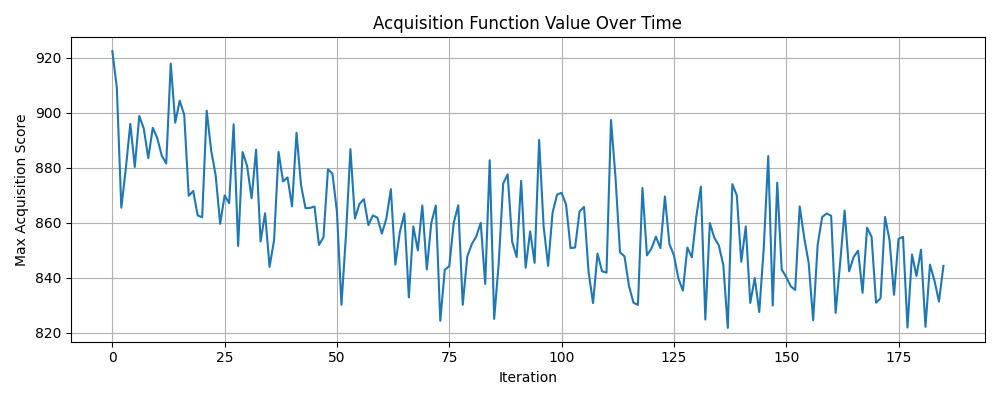
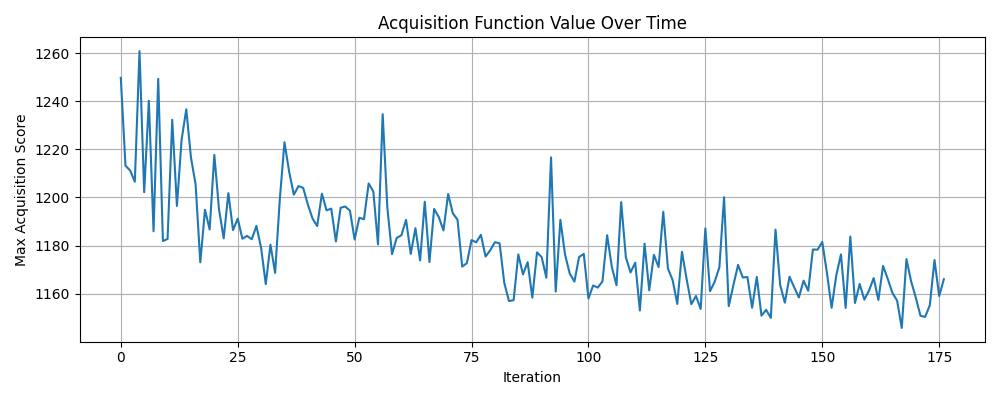
accounted for values outside convex hull

diff --git a/optimisers/optimiser.py b/optimisers/optimiser.py
@@ -1,5 +1,5 @@
 import numpy as np
-from scipy.spatial import Delaunay
+from scipy.spatial import Delaunay, KDTree
 from run_simulation import run_simulation
 
 from plots.plotting import (
@@ -49,30 +49,60 @@ def initialize_with_lhs(n_init=10, R_noise=1.0):
     return nodes, mu, P, best_obs, best_params, R_noise
 
 # ----------------------------------------------
-# 2. Interpolation helpers & 3. Kalman update
+# 2. Interpolation helpers & fallback (Option 1)
 # ----------------------------------------------
 def barycentric_coordinates(tri_pts, x):
     T = np.vstack([tri_pts.T, np.ones(3)])
     v = np.append(x, 1.0)
     return np.linalg.solve(T, v)
 
+def fallback_mean_sigma(x, nodes, mu, P, k=3, alpha=1.0):
+    """
+    Nearest-neighbor fallback: use k nearest sampled nodes to estimate mean & variance.
+    """
+    tree = KDTree(nodes)
+    dists, idxs = tree.query(x, k=k)
+    # ensure arrays
+    dists = np.atleast_1d(dists)
+    idxs = np.atleast_1d(idxs)
+
+    # inverse-distance weights
+    weights = 1.0 / (dists + 1e-6)
+    weights /= np.sum(weights)
+
+    mu_interp = sum(weights[i] * mu[idxs[i]] for i in range(len(idxs)))
+    prior_var = sum((weights[i]**2) * P[idxs[i], idxs[i]] for i in range(len(idxs)))
+    sigma = np.sqrt(prior_var + alpha * (np.max(dists)**2))
+    return mu_interp, sigma
+
 def interpolate_mean_and_sigma(x, nodes, mu, P, delaunay, alpha=1.0):
+    """
+    Try barycentric interpolation; if outside hull, fallback to nearest neighbors.
+    """
     idx = int(delaunay.find_simplex(x.reshape(1, -1))[0])
     if idx < 0:
-        return None, None
+        # outside convex hull → fallback
+        return fallback_mean_sigma(x, nodes, mu, P, k=3, alpha=alpha)
+
     verts = delaunay.simplices[idx]
     pts = np.asarray(nodes)[verts]
     λ = barycentric_coordinates(pts, x)
+
     mu_interp = sum(λ[i] * mu[verts[i]] for i in range(3))
     prior_var = sum((λ[i]**2) * P[verts[i], verts[i]] for i in range(3))
     dists = [np.linalg.norm(x - pts[i]) for i in range(3)]
     sigma = np.sqrt(prior_var + alpha * (max(dists)**2))
+
     return mu_interp, sigma
 
+# ----------------------------------------------
+# 3. Kalman update per iteration
+# ----------------------------------------------
 def one_iteration(nodes, mu, P, next_point, best_obs, best_params, R_noise, alpha=2.0):
     x_new = np.asarray(next_point)
     for i, pt in enumerate(nodes):
         if np.allclose(pt, x_new, atol=1e-6):
+            # exact re-sample
             y_new = run_simulation(x_new[1], int(x_new[0]))
             H = np.zeros((1, len(nodes))); H[0, i] = 1.0
             S = H @ P @ H.T + R_noise
@@ -83,21 +113,31 @@ def one_iteration(nodes, mu, P, next_point, best_obs, best_params, R_noise, alph
                 best_obs, best_params = y_new, (int(x_new[0]), float(x_new[1]))
             return nodes, mu_post, P_post, best_obs, best_params
 
+    # need at least 3 points to interpolate
     if len(nodes) < 3:
         return nodes, mu, P, best_obs, best_params
 
     delaunay = Delaunay(np.asarray(nodes))
     mu0, sigma0 = interpolate_mean_and_sigma(x_new, nodes, mu, P, delaunay, alpha)
-    if mu0 is None:
-        return nodes, mu, P, best_obs, best_params
-
     N = len(nodes)
-    tri_idx = int(delaunay.find_simplex(x_new.reshape(1, -1))[0])
-    verts = delaunay.simplices[tri_idx]
-    λ = barycentric_coordinates(np.asarray(nodes)[verts], x_new)
+
+    # build augmented prior
     cov_old = np.zeros(N)
-    for jj, ii in enumerate(verts):
-        cov_old[ii] = λ[jj] * P[ii, ii]
+    tri_idx = int(delaunay.find_simplex(x_new.reshape(1, -1))[0])
+    if tri_idx >= 0:
+        verts = delaunay.simplices[tri_idx]
+        λ = barycentric_coordinates(np.asarray(nodes)[verts], x_new)
+        for jj, ii in enumerate(verts):
+            cov_old[ii] = λ[jj] * P[ii, ii]
+    else:
+        # fallback covariance share
+        # weight equally among k nearest
+        tree = KDTree(nodes)
+        dists, idxs = tree.query(x_new, k=3)
+        weights = 1.0 / (dists + 1e-6)
+        weights /= np.sum(weights)
+        for jj, ii in enumerate(np.atleast_1d(idxs)):
+            cov_old[ii] = weights[jj] * P[ii, ii]
 
     mu_aug = np.concatenate([mu, [mu0]])
     P_aug = np.zeros((N+1, N+1))
@@ -106,6 +146,7 @@ def one_iteration(nodes, mu, P, next_point, best_obs, best_params, R_noise, alph
     P_aug[N, :N] = cov_old
     P_aug[N, N] = sigma0**2
 
+    # observe new point
     y_new = run_simulation(x_new[1], int(x_new[0]))
     H = np.zeros((1, N+1)); H[0, N] = 1.0
     S = H @ P_aug @ H.T + R_noise
@@ -130,8 +171,6 @@ def propose_next_ucb_discrete_b(nodes, mu, P, delaunay,
         for p in prices:
             x = np.array([float(b), p])
             μ_val, σ_val = interpolate_mean_and_sigma(x, nodes, mu, P, delaunay, alpha)
-            if μ_val is None:
-                continue
             ucb = μ_val + kappa * σ_val
             if ucb > best_ucb:
                 best_ucb, best_cand = ucb, [float(b), p]
